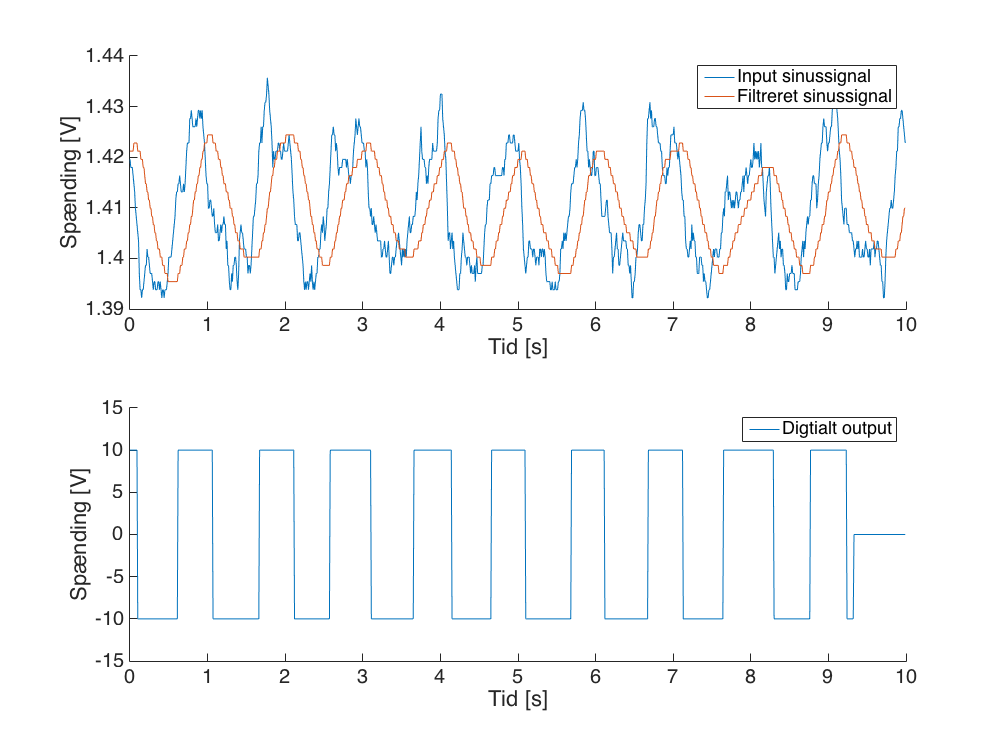
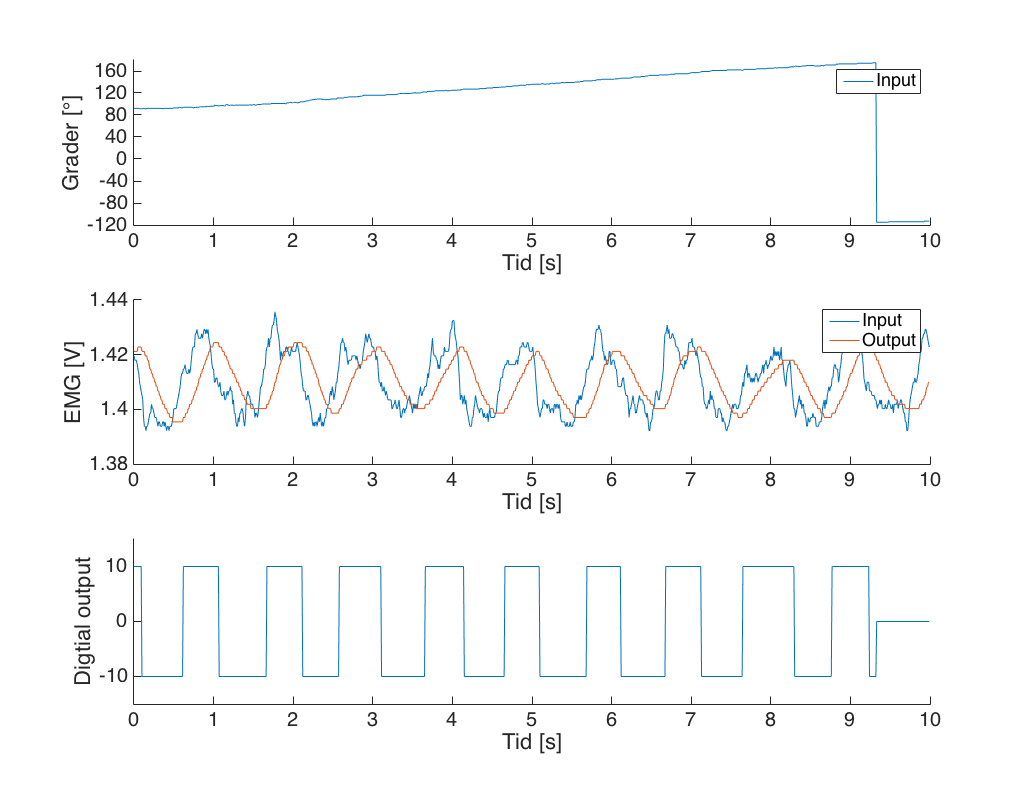
bfrebi

diff --git a/rapportAfsnit/eProblemloesning/Systemtest/systemtest_kendtinput.tex b/rapportAfsnit/eProblemloesning/Systemtest/systemtest_kendtinput.tex
@@ -2,53 +2,33 @@
 I dette afsnit vil det samlede system blive testet, så det er muligt at se, om systemet behandler dette input, som det forventes. På baggrund af disse målinger er det muligt at konkludere, om systemet virker. 
 
 \subsection{Beskrivelse}
-For at teste om det samlede system med et kendt input benyttes en funktionsgenerator, så der kan genereres et sinussignal på $500~Hz$ med en peak-peak-amplitude på $4~mV$. Sinussignalets frekvens og amplitude er nær ved, hvad der kan forventes af et filtreret EMG-signal. Outputtet fra sinussignalet er filtreret gennem lavpasfiltreret. 
+For at teste accelerometer-signalerne indsendes der to spændinger svarende til de to accelerometre. Denne varireres over tid, således at spændingen svarer til $90-180^{\circ}$. Derudover testes det for om vinkel falder til $-200^{\circ}$, når spændingen svarende til $180^{\circ}$ overskrides. 
 
-Der foretages endnu en måling  samtidig for at test accelerometer-signalerne. Dette gøres ved at indsende to spændinger svarende til de to accelerometre. Denne varireres over tid, således at den overskrider de spændinger, der svarer til $90-180^{\circ}$.
+For at teste om det samlede system med et kendt input benyttes en funktionsgenerator, så der kan genereres et sinussignal på $500~Hz$ med en peak-peak-amplitude på $4~mV$. Sinussignalets frekvens og amplitude er nær ved, hvad der kan forventes af et filtreret EMG-signal. Outputtet fra sinussignalet er filtreret gennem det implementerede lavpasfilter. 
 
-Hele testen foretages i 10 sekunder og optages via mikrokontrolleren. Ud fra disse målinger, er det muligt at se effekten af systemets blokke, når de er sammensat ved at sammenligne input-signalet og outputtet af sinussignalet samt spændingerne for det samlede acclerometre. Resultaterne fra målingerne visualiseres i MATLAB. 
+
+Hele testen foretages i 10 sekunder og optages via mikrokontrolleren. Ud fra disse målinger, er det muligt at se effekten af systemets blokke, når de er sammensat ved at sammenligne input-signalet og outputtet af det samplede sinussignal samt spændingerne for det samlede acclerometre. Resultaterne fra målingerne visualiseres i MATLAB. 
 
 
 \subsection{Resultater af test}
-Fra testen plottes og visualiseres systemets input af sinussignalet og outputtet fra det filtrerede signal, samt den omregnede spænding til en vinkel for begge de målte spændinger. Derudover er der plottet den digitale ouputsignal fra EMG-algoritmen. Resultaterne fremgår af \autoref{fig:test_kendtinput}. 
+Fra testen plottes og visualiseres systemets input af det samplede sinussignal og outputtet fra det opsamlede digitalt filtrerede signal, samt spændingen fra de to accelerometre, der er omregnet til en samlet vinkel ved lineær interpolation. Derudover er der plottet det opsamlede digitale output som er behandlet i EMG-algortimen. Resultaterne fremgår af \autoref{fig:test_kendtinput_vinkel}. 
 
 \begin{figure}[H]
 \centering
 \includegraphics[width=0.4\textwidth]{figures/kontrol_test_sinus.jpg}
-\caption{På den øverste figur, illustrer den blå graf inputsignalet svarende til en sinus på $500~Hz$ med en $V_{pp}$ på $4~mV$. Den røde graf illustrer sinussignalet som er filtreret, disse værdier er målt i spændingen, som det ses på den venstre Y-akse. Den gule graf viser den samlede spænding omregnet til en vinkel, hvilket fremgår af den højre Y-akse. På den nederste figur er den blå graf signalets digitale output i EMG-algoritmen}
+\caption{På den øverste figur illustrerer den blå graf den samlede vinkel. Det fremgår af grafen at vinkelen er stigende fra $90^{\circ}$ til $175^{\circ}$, hvorefter vinklen daler markant ned til $-115^{\circ}$. 
+På den midterste figur, illustrer den blå graf det opsamlede inputsignal, svarende til en sinus på $500~Hz$ med en $V_{pp}$ på $4~mV$. Den røde graf illustrer det opsamlede digitale outputsignal, disse værdier er målt i spændingen. 
+På den nederste figur illustrerer den blå graf signalets digitale output. Signalet går fra $10$ ved stigende muskelaktivitet til $-10$ ved en faldende muskelaktivitet, hvis grafen går i $0$ svarer dette til en overskridelse af en vinkel på $180^{\circ}$ eller en vinkel under $90^{\circ}$}
 \label{fig:test_kendtinput}
 \end{figure}
 
-På baggrund af målingerne for \autoref{fig:test_kendtinput} ses det at ved en stigende spænding svarende til $90-180^{\circ}$ vil vinklen stige, hvilket stemmer overens med forventningen. Det fremgår af grafen at ved en spænding svarende til omkring $180^{\circ}$, hvilket på grafen svarer til $175^{\circ}$ hvor den overskrider, hvorved grafen går i $-115^{\circ}$. I følge implementering skal signalet når det overstiger $180^{\circ}$ gå i $-200^{\circ}$. Disse faktorer er angiveligt fordi den ene spænding ikke har været tilsvarende, hvorved denne har været modsigende i forhold til beregningen af den samlede vinkel.
+På baggrund af målingerne for den øverste figur på \autoref{fig:test_kendtinput} fremgår det, at en stigende spænding svarende til $90-175^{\circ}$, får den samlede vinkel til at stige. Ved en vinkel på $175^{\circ}$ overskrider denne spændingen svarende til en vinkel på $180^{\circ}$, hvor vinklen daler markant på $1~ms$ ned til $-115^{\circ}$. 
+Dette burde ifølge det implementerede kode gå ned til en vinkel på $-200^{\circ}$ ved overskridelse af $180^{\circ}$.
+Disse faktorer er angiveligt fordi den målte spænding ikke har været $0~V$ ved forsøgets begyndelse, hvorfor den samlede vinkel ikke når den maksimale vinkel på $180^{\circ}$ og ikke daler til $-200^{\circ}$.
 
-Det fremgår af \autoref{fig:test_kendtinput}, hvis der ses på EMGsignalet 
+Det fremgår af den midterste figur og den nederste figur på \autoref{fig:test_kendtinput}, at der er en sammenhæng mellem det opsamlede filtrerede sinussignal og det opsamlede outputsignal. Når sinussignalet er faldende, daler outputsignalet markant fra $10$ til $-10$, hvorefter outputsignalet stiger markant fra $-10$ til $10$, når signussignalet stiger igen. Derudover ses det, at tiden hvor signalet befinder sig i $10$ eller $-10$ varierer alt efter hvor længe det opsamlede filtrerede sinussignals er stigende eller faldende .
 
-
- findes lokale maksima- og minimapunkter. For at kunne udregne forsinkelsen sammenlignes forskellen mellem de lokale ekstrema, hvor der undersøges hvornår outputtet skifter spænding, altså differensen mellem lokale ekstrema og skift i outputspænding. Resultaterne for dette fremgår af \autoref{tab:sinus_ekstrema}.
-
-
-\begin{table}[H]
-\centering
-\begin{tabular}{|c|c|c|}
-\hline
-\textbf{Ekstrema {[}s{]}} & \textbf{Output-skift {[}s{]}} & \textbf{Forsinkelse {[}s{]}} \\ \hline
-3,0132                    & 2,8778                        & 0,1354                       \\ \hline
-2,9922                    & 2,8859                        & 0,1063                       \\ \hline
-2,9842                    & 2,8907                        & 0,0935                       \\ \hline
-2,9777                    & 2,8939                        & 0,0838                       \\ \hline
-2,9713                    & 2,9020                        & 0,0693                       \\ \hline
-2,9713                    & 2,9101                        & 0,0612                       \\ \hline
-2,9681                    & 2,9101                        & 0,0580                       \\ \hline
-2,9681                    & 2,9117                        & 0,0564                       \\ \hline
-2,9632                    & 2,9246                        & 0,0386                       \\ \hline
-2,9568                    & 2,9278                        & 0,0290                       \\ \hline
-\end{tabular}
-\caption{Målt ekstrema, output-skift og differensen mellem disse, som fremgår som forsinkelse}
-\label{tab:sinus_ekstrema}
-\end{table}
-
-Af \autoref{tab:sinus_ekstrema} fremgår det, at forsinkelsen fra inputsignalet registreres som en ændring  i output-signalet og er mellem $0,0290~s$ og $0,1354~s$. Ud fra dette er den gennemsnitlige forsinkelse beregnet til at være $0,07315~s$, hvilket svarer til omkring $73~ms$. 
-
+På den nederste figur på \autoref{fig:test_kendtinput} fremgår det at efter have befundet sig i $-10$ ved 9 sekunder, stiger til $0$. Dette er grundet målingerne i den øverste figur, hvor vinkelen når $175^{\circ}$. Dette stemmer overens med at, hvis vinklen overskrider de $180^{\circ}$ eller er under $90^{\circ}$ skal det opsamlede digitale signal gå i $0$. 
 
 \subsection{Konklusion}
 .....
